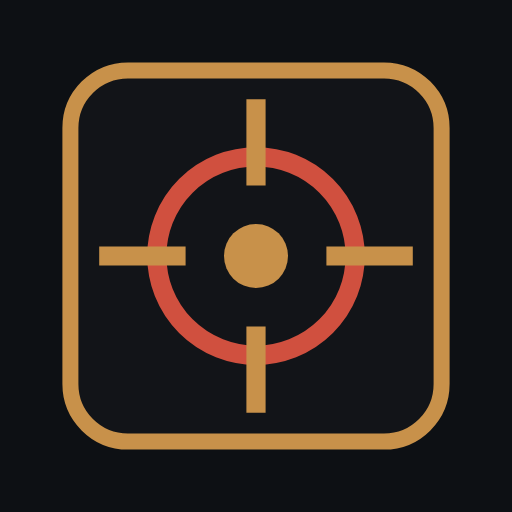
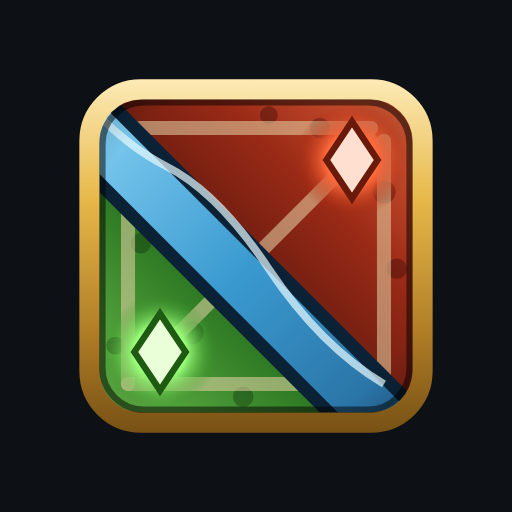
Иконка сайта и приложения — логотип E2
- icon.svg, favicon.png, icon-192/512, maskable-512 и apple-touch-icon
  перерисованы из public/logo.svg.
- Версия кэша service worker повышена, чтобы иконка обновилась.

Claude-Session: https://claude.ai/code/session_012aQS4ELDHnsMw6dJfHtnZg

diff --git a/public/sw.js b/public/sw.js
@@ -1,7 +1,7 @@
 // Service worker: офлайн на последних загруженных данных.
 // Оболочка и данные — «сеть, потом кэш»; файлы со хешем, иконки, шрифты — «кэш, потом сеть».
 // Запросы к OpenDota и Twitch не кэшируются.
-const CACHE = 'kontrpik-v2';
+const CACHE = 'kontrpik-v3';
 const BASE = new URL(self.registration.scope).pathname;
 const SHELL = [BASE, BASE + 'manifest.webmanifest', BASE + 'data/stats.json', BASE + 'data/positions.json', BASE + 'data/tips.json', BASE + 'data/patch.json'];
 
